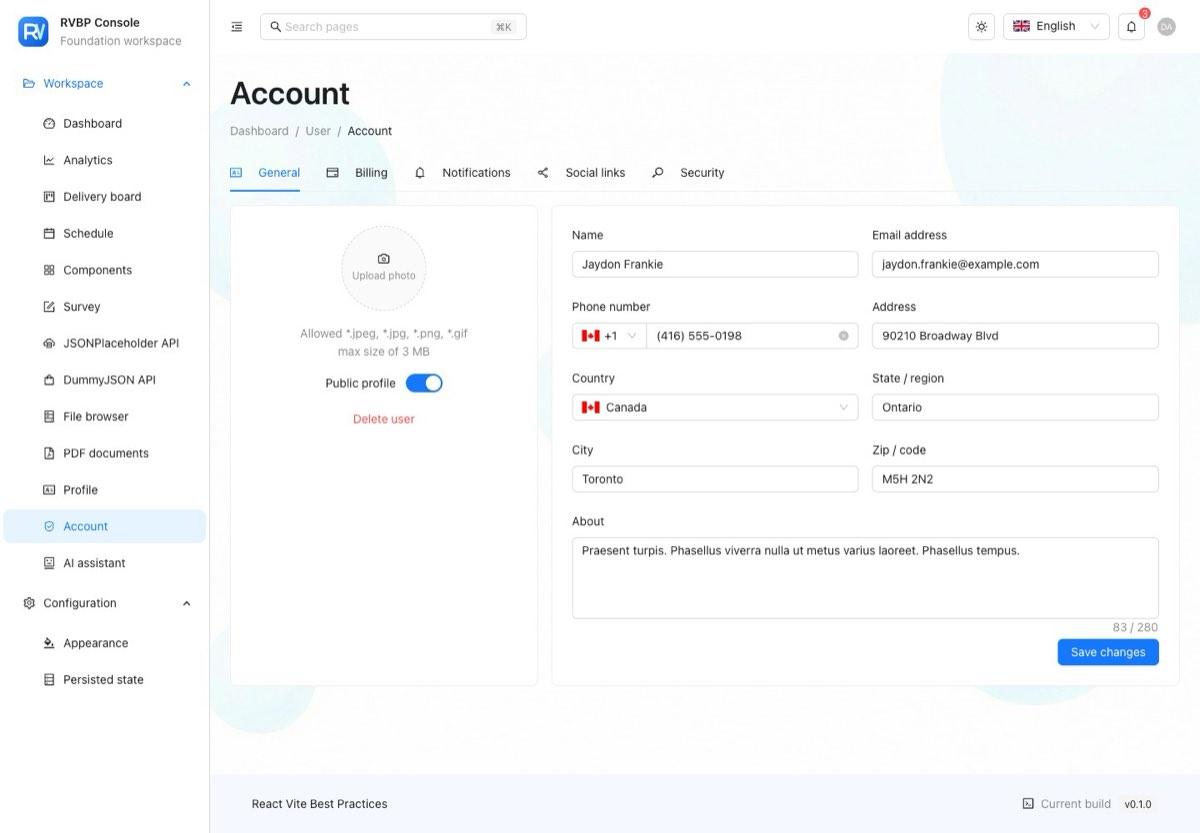
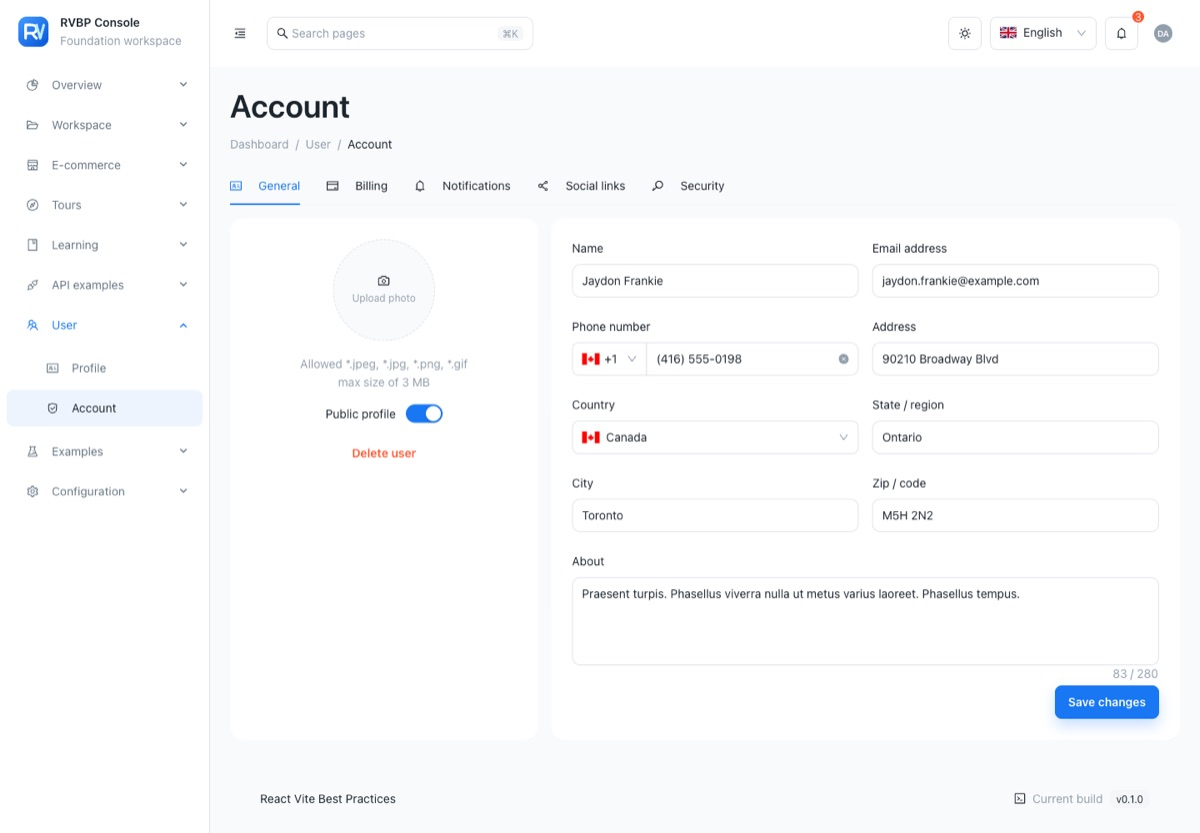
docs: retake every README screenshot in the Gurkan theme
All fifteen were taken in the old default theme and in a sidebar that has since
been regrouped into nine sections, so several of them showed a menu that no
longer exists. They are retaken at one viewport width, in English and light
mode, so the set reads as one application rather than a collection of moments.

Six screens that were only named in the bullet list now have a picture: the
theme gallery, an invoice, the course list, the PDF viewer, the chat, and the
landing page. The theme gallery gets a section of its own — it is the one place
the six presets and the light/dark split are visible at once.

Analytics is a full-page capture now. The claim above it is "ten chart types on
one page" and the old viewport-height shot showed four of them.

Two pieces of copy had gone stale and the screenshots made them obvious: the
landing page still credited Ant Design Charts, which Recharts replaced, and so
did the note in 009 about where the dashboard chart comes from.

diff --git a/README.md b/README.md
@@ -60,12 +60,23 @@ filters and scroll position. Both read the same detail query.
   <img src="docs/images/posts-quick-edit.jpg" alt="The quick edit drawer" width="49%">
 </p>
 
+### Six visual themes, light and dark
+
+`/settings` switches the whole shell between six presets and remembers the choice. Five are
+adapted from the Ant Design website and are light-only, so their dark variant is derived by
+stripping their colours. Gurkan carries both palettes itself, because a theme whose
+character is its greys cannot survive having them stripped —
+[009](docs/009-ant-design-and-theming.md) explains the split. No preset touches the global
+stylesheet: every one of them is `ConfigProvider` tokens.
+
+![The theme gallery, with the Gurkan preset selected](docs/images/appearance.jpg)
+
 ### A broad Ant Design component catalog
 
 `/components` demonstrates commonly used Ant Design components across five groups, so a component
 can be seen working in this theme before it is reached for.
 
-![The component catalog's layout group](docs/images/component-catalog.jpg)
+![The component catalog's input group](docs/images/component-catalog.jpg)
 
 ### Ten chart types on one page
 
@@ -120,7 +131,10 @@ document adds up to and both the order and the invoice call it, so the two canno
 about tax on a discounted subtotal. [032](docs/032-ecommerce-screens.md) has the component
 map and the antd deprecations the console reported along the way.
 
-![The product detail page](docs/images/shop-product.jpg)
+<p>
+  <img src="docs/images/shop-product.jpg" alt="The product detail page" width="49%">
+  <img src="docs/images/shop-invoice.jpg" alt="The invoice" width="49%">
+</p>
 
 ### A tours section: card list and detail
 
@@ -138,9 +152,30 @@ prompts and as options. Partial credit, a countdown that hands the paper in, and
 question no code can score — [034](docs/034-exam-engine.md) covers the model and the two
 bugs the numbers found.
 
-![The exam](docs/images/exam.jpg)
+<p>
+  <img src="docs/images/learning-courses.jpg" alt="The course list" width="49%">
+  <img src="docs/images/exam.jpg" alt="A question whose options are pictures" width="49%">
+</p>
 
-### An admin shell with persistent preferences
+### A PDF viewer and a streamed chat
+
+`/documents` fetches a PDF as a blob through the same API client every other request uses,
+then renders it with pdf.js — so an authenticated endpoint would need no change. `/assistant`
+is built from Ant Design X: the answers are canned, but the streaming, the cancelling, and
+the rendering are real, and nothing leaves the browser.
+
+<p>
+  <img src="docs/images/documents.jpg" alt="The PDF viewer" width="49%">
+  <img src="docs/images/assistant.jpg" alt="The AI assistant" width="49%">
+</p>
+
+### A landing page and an admin shell
+
+`/` is a standalone marketing page and everything else lives behind the shell, so the two
+do not have to share a layout. Language, theme, colour mode, and density are stored by
+Zustand and survive a reload on both.
+
+![The landing page](docs/images/landing.jpg)
 
 ![The dashboard](docs/images/dashboard.jpg)
 
@@ -151,7 +186,7 @@ bugs the numbers found.
 - Source path aliases
 - TanStack Query for server state, caching, mutations, and targeted invalidation
 - MSW for a mocked API that runs beside the real one
-- Ant Design and persistent visual themes
+- Ant Design and six persistent visual themes, one of them carrying its own dark palette
 - A working catalog of the full Ant Design component set
 - Ten Recharts chart types themed from Ant Design's design tokens
 - A file browser with a folder tree, uploads, renames, and subtree deletes

diff --git a/docs/009-ant-design-and-theming.md b/docs/009-ant-design-and-theming.md
@@ -131,7 +131,7 @@ The `AntApp` wrapper supplies context for components and APIs that need it, such
 
 ## Styling ownership
 
-The application does not target Ant Design's internal `.ant-*` classes. Application CSS is limited to structural page layout and the tiny color swatches in the theme picker. Component appearance comes from Ant Design or the selected official homepage preset. The dashboard chart is provided by Ant Design Charts rather than custom CSS.
+The application does not target Ant Design's internal `.ant-*` classes. Application CSS is limited to structural page layout and the tiny color swatches in the theme picker. Component appearance comes from Ant Design or the selected preset. The dashboard chart is drawn by Recharts, coloured from the design tokens, rather than by custom CSS.
 
 Responsive data layout fixes also stay on Ant Design's public API. The project uses responsive `Descriptions` columns, vertical key/value layout, explicit `Table` column widths, and horizontal table scrolling instead of overriding internal selectors. See document 015 for the rationale and reusable patterns.
 
